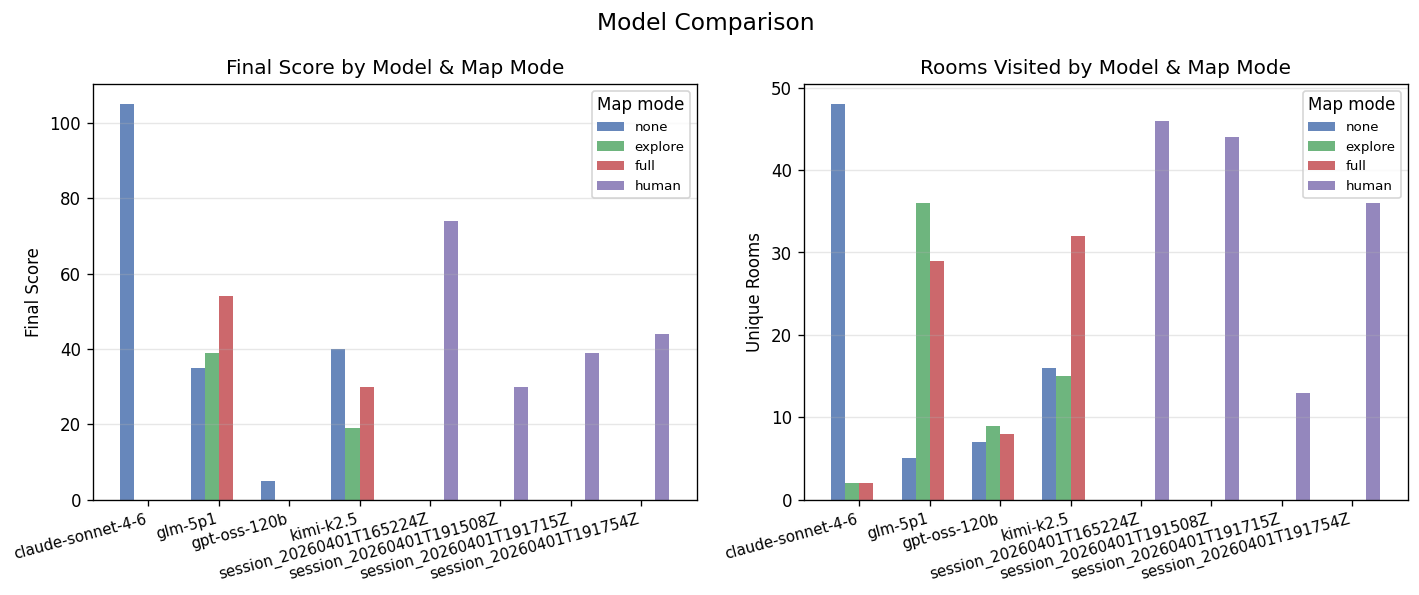
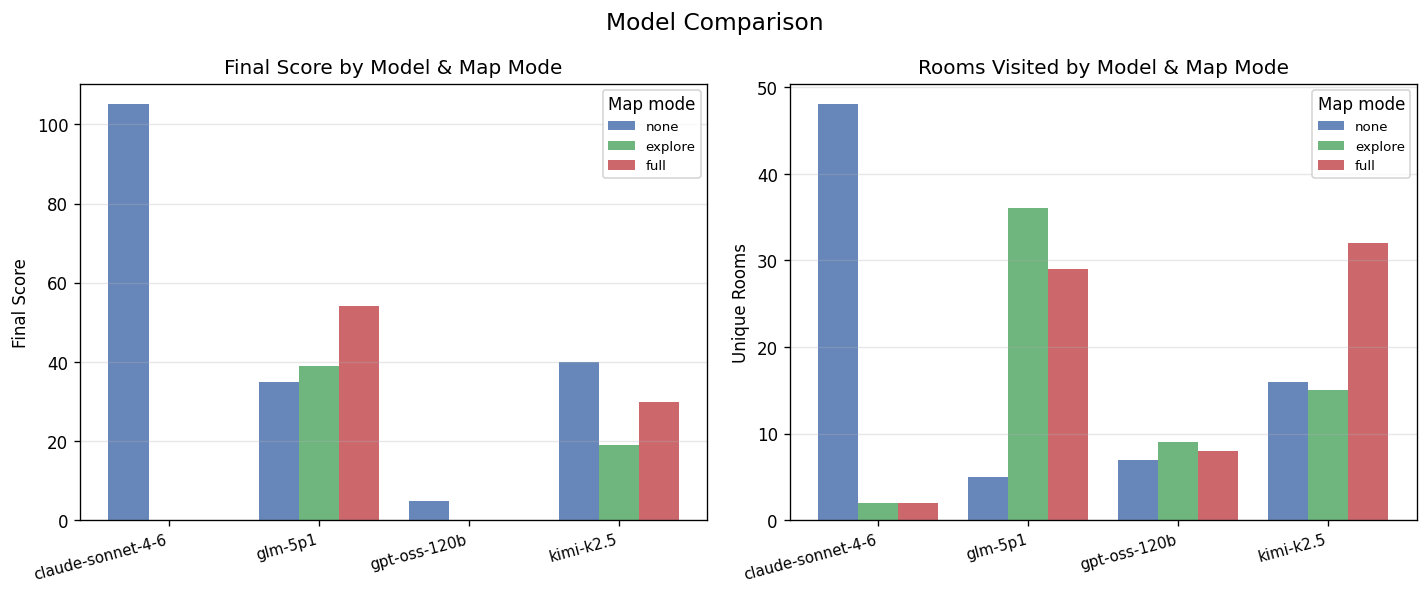
Filter humans out of the four chart functions
Side-effect of loading every human session individually (so each appears
in print_humans_table) was that score_progression and room_discovery
grew an unwanted 4th panel for map_mode='human', and model_comparison
plotted raw session timestamps as if they were model names.

Filter humans out of all four chart functions for now. tokens_per_turn
already handled this naturally via its empty-series check.

Adding humans back as proper dashed baselines on score_progression and
room_discovery is roadmap item #4 (the only remaining piece of #4 that
this PR did not already cover).

Changed region(s): [[0.0, 0.0909, 1.0, 0.9697], [0.4031, 0.0, 0.5891, 0.0606]]

diff --git a/benchmark/analyze.py b/benchmark/analyze.py
@@ -516,8 +516,17 @@ def plot_score_progression(
     metrics_list: list[dict[str, Any]],
     output_path: Path,
 ) -> None:
-    """1x3 subplots (one per map_mode): score over turns, one line per model."""
+    """1x3 subplots (one per map_mode): score over turns, one line per model.
+
+    Humans are excluded from this chart (they have no map_mode and their
+    session names blow up the legend). Adding them as dashed baselines is
+    roadmap item #4.
+    """
     import matplotlib.pyplot as plt  # noqa: PLC0415
+
+    metrics_list = [m for m in metrics_list if m.get("player_type") != "human"]
+    if not metrics_list:
+        return
 
     map_modes_present = {m["map_mode"] for m in metrics_list}
     map_modes = [mm for mm in MAP_MODE_ORDER if mm in map_modes_present]
@@ -564,8 +573,15 @@ def plot_room_discovery(
     metrics_list: list[dict[str, Any]],
     output_path: Path,
 ) -> None:
-    """1x3 subplots (one per map_mode): cumulative unique rooms over turns."""
+    """1x3 subplots (one per map_mode): cumulative unique rooms over turns.
+
+    Humans excluded for the same reason as plot_score_progression.
+    """
     import matplotlib.pyplot as plt  # noqa: PLC0415
+
+    metrics_list = [m for m in metrics_list if m.get("player_type") != "human"]
+    if not metrics_list:
+        return
 
     map_modes_present = {m["map_mode"] for m in metrics_list}
     map_modes = [mm for mm in MAP_MODE_ORDER if mm in map_modes_present]
@@ -616,7 +632,8 @@ def plot_tokens_per_turn(
 
     A coarse "compute-per-decision" signal, useful for spotting models that
     front-load reasoning on specific turns vs. ones that spend uniformly.
-    Skips sessions with no token data (e.g. human play).
+    Skips sessions with no token data (e.g. human play, hence no human filter
+    needed; the empty-series check handles them naturally).
     """
     import matplotlib.pyplot as plt  # noqa: PLC0415
 
@@ -670,9 +687,18 @@ def plot_model_comparison(
     metrics_list: list[dict[str, Any]],
     output_path: Path,
 ) -> None:
-    """Grouped bar chart: 2 subplots (final_score, unique_rooms), bars grouped by model, colored by map_mode."""
+    """Grouped bar chart: 2 subplots (final_score, unique_rooms), bars grouped by model, colored by map_mode.
+
+    Humans are excluded; their per-session 'model_nickname' is the session
+    timestamp (since they have no model name) and that blows up the x-axis.
+    Adding humans as a separate aggregated bar group is roadmap item #4.
+    """
     import matplotlib.pyplot as plt  # noqa: PLC0415
     import numpy as np  # noqa: PLC0415
+
+    metrics_list = [m for m in metrics_list if m.get("player_type") != "human"]
+    if not metrics_list:
+        return
 
     map_modes_present = {m["map_mode"] for m in metrics_list}
     map_modes = [mm for mm in MAP_MODE_ORDER if mm in map_modes_present]
